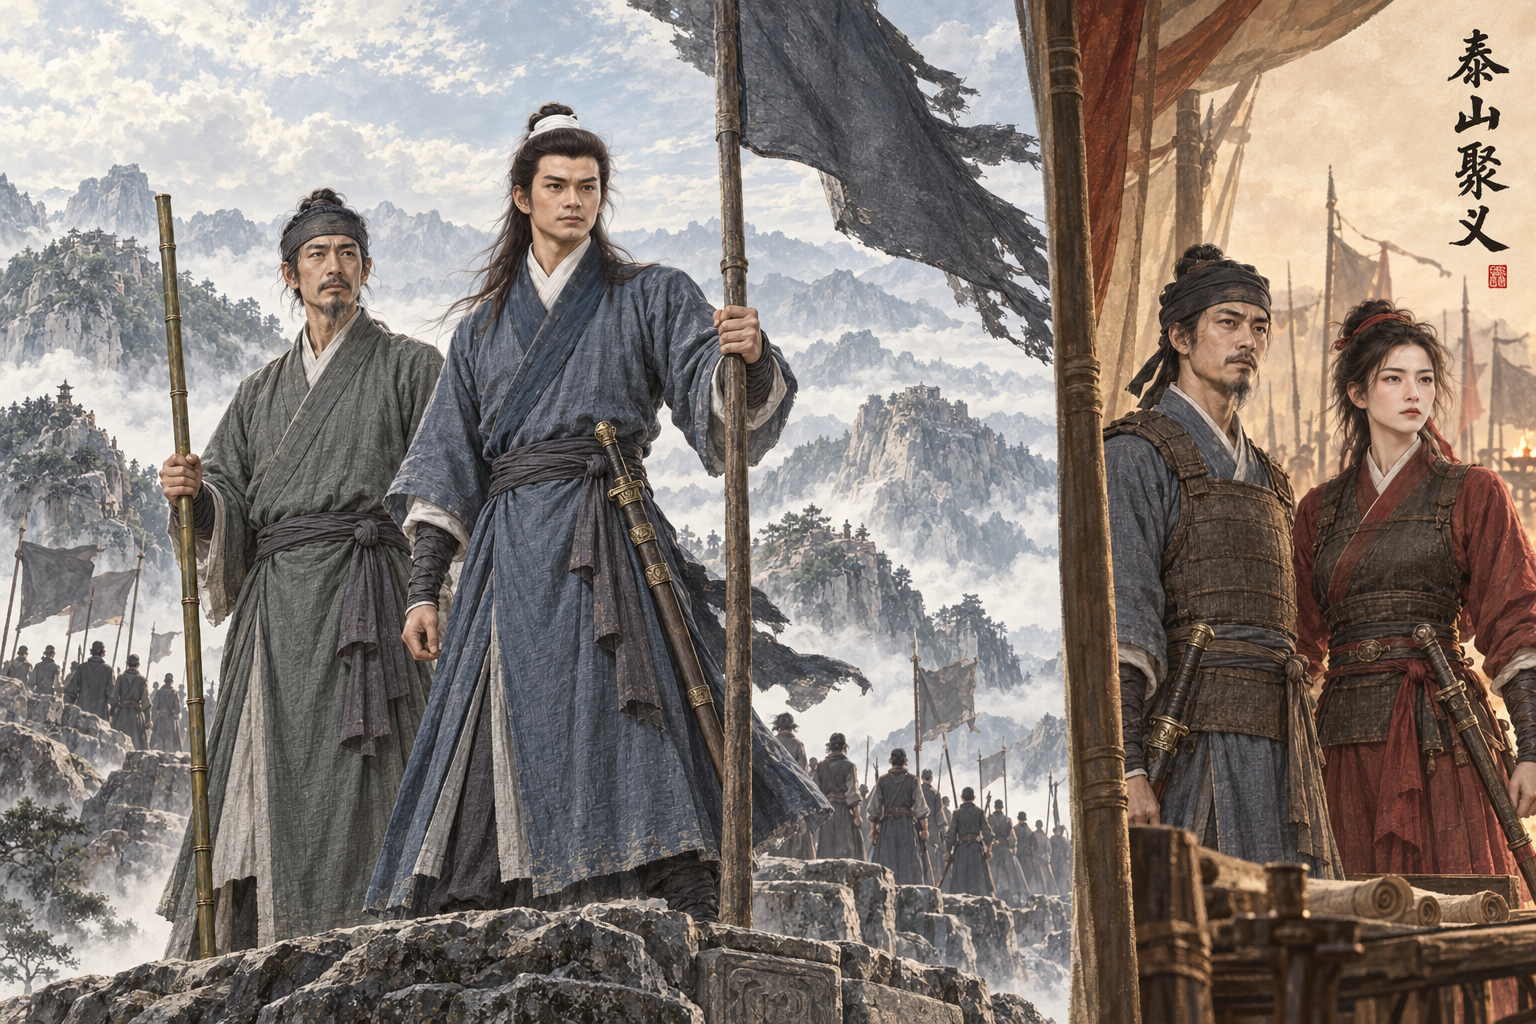
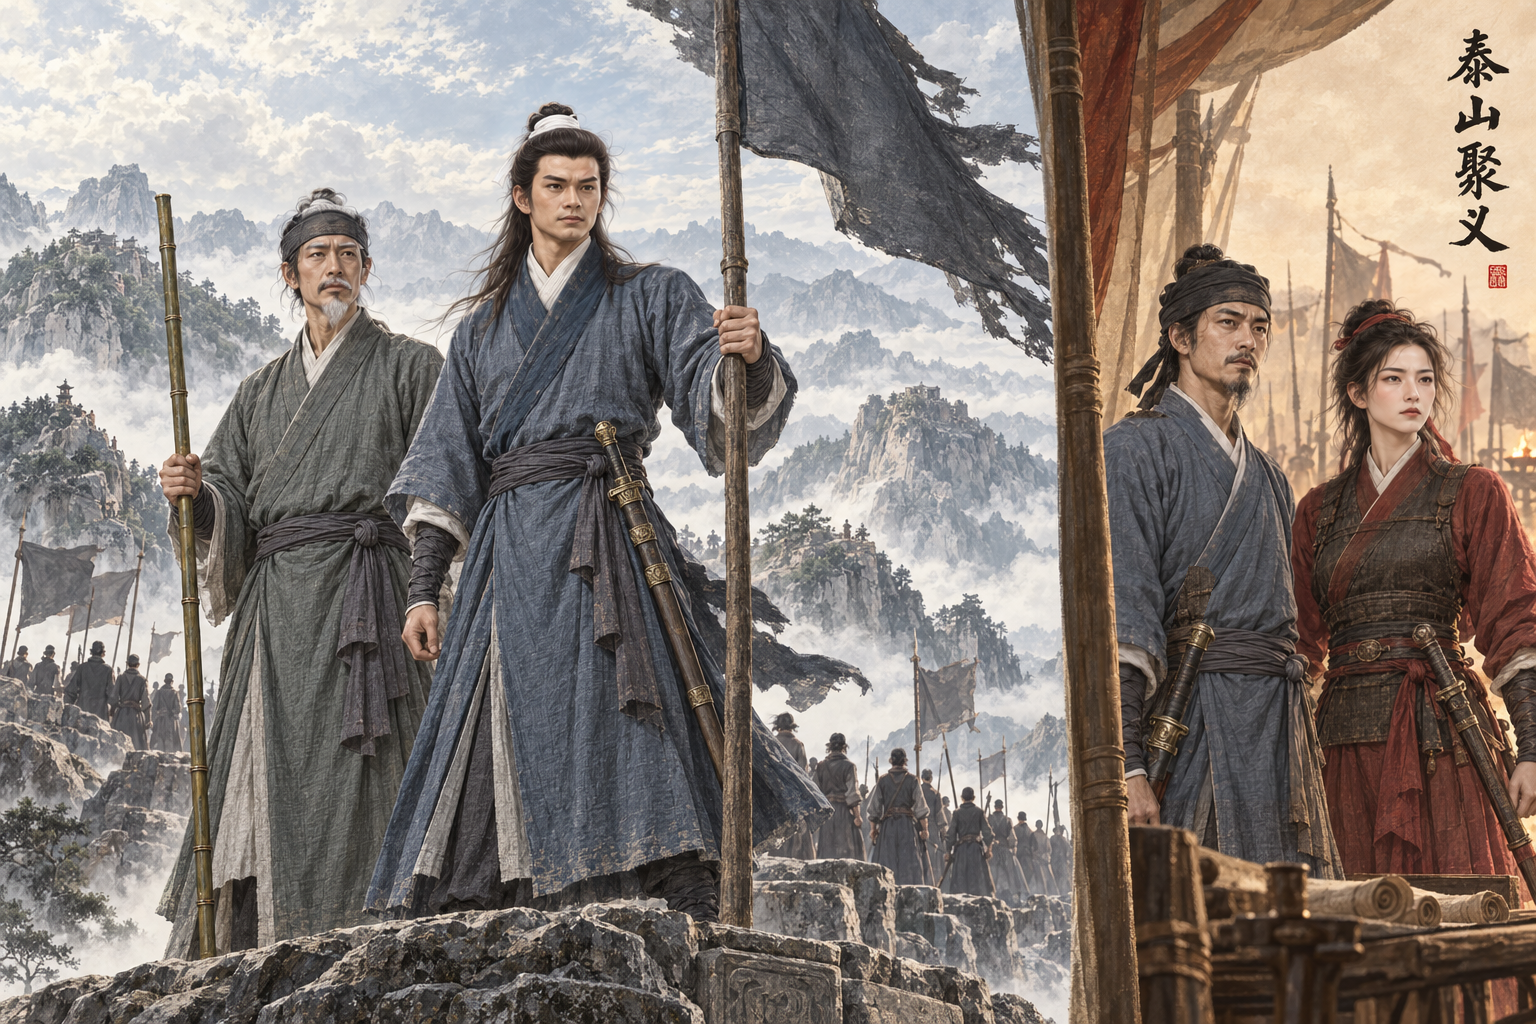
assets: AR-82 原著核对返修 泰山聚义袁承志旧疤、程青竹白须眉及李岩书生服
泰山聚义袁承志旧疤、程青竹白须眉及李岩书生服；原著摘句已同步提示词；蒙版外变化0像素。

Executed-By: Codex gpt-6.1-sol（AR-82）

Changed region(s): [[0.7188, 0.4062, 0.8438, 0.75], [0.1875, 0.25, 0.25, 0.3125], [0.1875, 0.1875, 0.25, 0.2188]]

diff --git a/assets/default/prompts/scenes/ch07-bixue/cg_ch07_taishan_alliance.md b/assets/default/prompts/scenes/ch07-bixue/cg_ch07_taishan_alliance.md
@@ -28,6 +28,12 @@ redo_reason: "作者 10-02 晚：复合基线风格精修"
 composite_job: cg_ch07_taishan_alliance.resume3
 ---
 
+## AR-82 当前定稿要求
+
+只改三个小范围：中央白束发袁承志自身左眉上方（画面右眉）加淡小旧疤；左侧持双竹的程青竹，露出的髻发、两鬓、眉毛、胡须改白，头巾与五官原样；右侧男性李岩外层胸甲和甲片肩带去掉，以原青布书生长衫自然补齐，保留腰带、刀剑和姿势。右侧红衣女子全部不动，旗帜旗杆、其他人物、天空山景、题字全不动。
+
+以上为当前原著核对后的要求，覆盖下文旧版中与之冲突的服饰、器物、伤残、光线和体态描述。
+
 ## Gemini 提示词
 
 > 作者10-02晚复合精修；任务 `cg_ch07_taishan_alliance.resume3`；实际上传顺序见frontmatter，末两张为male项目基线。
@@ -68,3 +74,9 @@ composite_job: cg_ch07_taishan_alliance.resume3
 排除项：不要文字、题字、字幕、水印、签名、Logo、边框或分镜格；不要未指定的多余人物（明确要求的远景群像除外）；不要幼态、儿童体态、性化处理、裸露或恋物特写；不要血腥特写、断肢、尸体堆叠或伤口细节；不要真人、演员、影视剧照复刻；不要多余肢体、手指错误、脸部融合、身份串脸、时代错装、现代物件、动漫风、摄影棚感、3D 塑料感。
 ```
 
+## 原著依据
+
+- 《碧血剑》三《经年亲剑铗，长日对楸枰》：“小小疤痕”（https://xuges.com/WUXIA/jinyong/bxj/013.htm）
+- 《碧血剑》十《不传传百变，无敌敌千招》：“须眉皆白的老者”（https://xuges.com/WUXIA/jinyong/bxj/066.htm）
+- 《碧血剑》四《矫矫金蛇剑，翩翩美少年》：“身穿书生服色”（https://xuges.com/WUXIA/jinyong/bxj/021.htm）
+- AR-82 返修约束：只改三个小范围：中央白束发袁承志自身左眉上方（画面右眉）加淡小旧疤；左侧持双竹的程青竹，露出的髻发、两鬓、眉毛、胡须改白，头巾与五官原样；右侧男性李岩外层胸甲和甲片肩带去掉，以原青布书生长衫自然补齐，保留腰带、刀剑和姿势。右侧红衣女子全部不动，旗帜旗杆、其他人物、天空山景、题字全不动。
